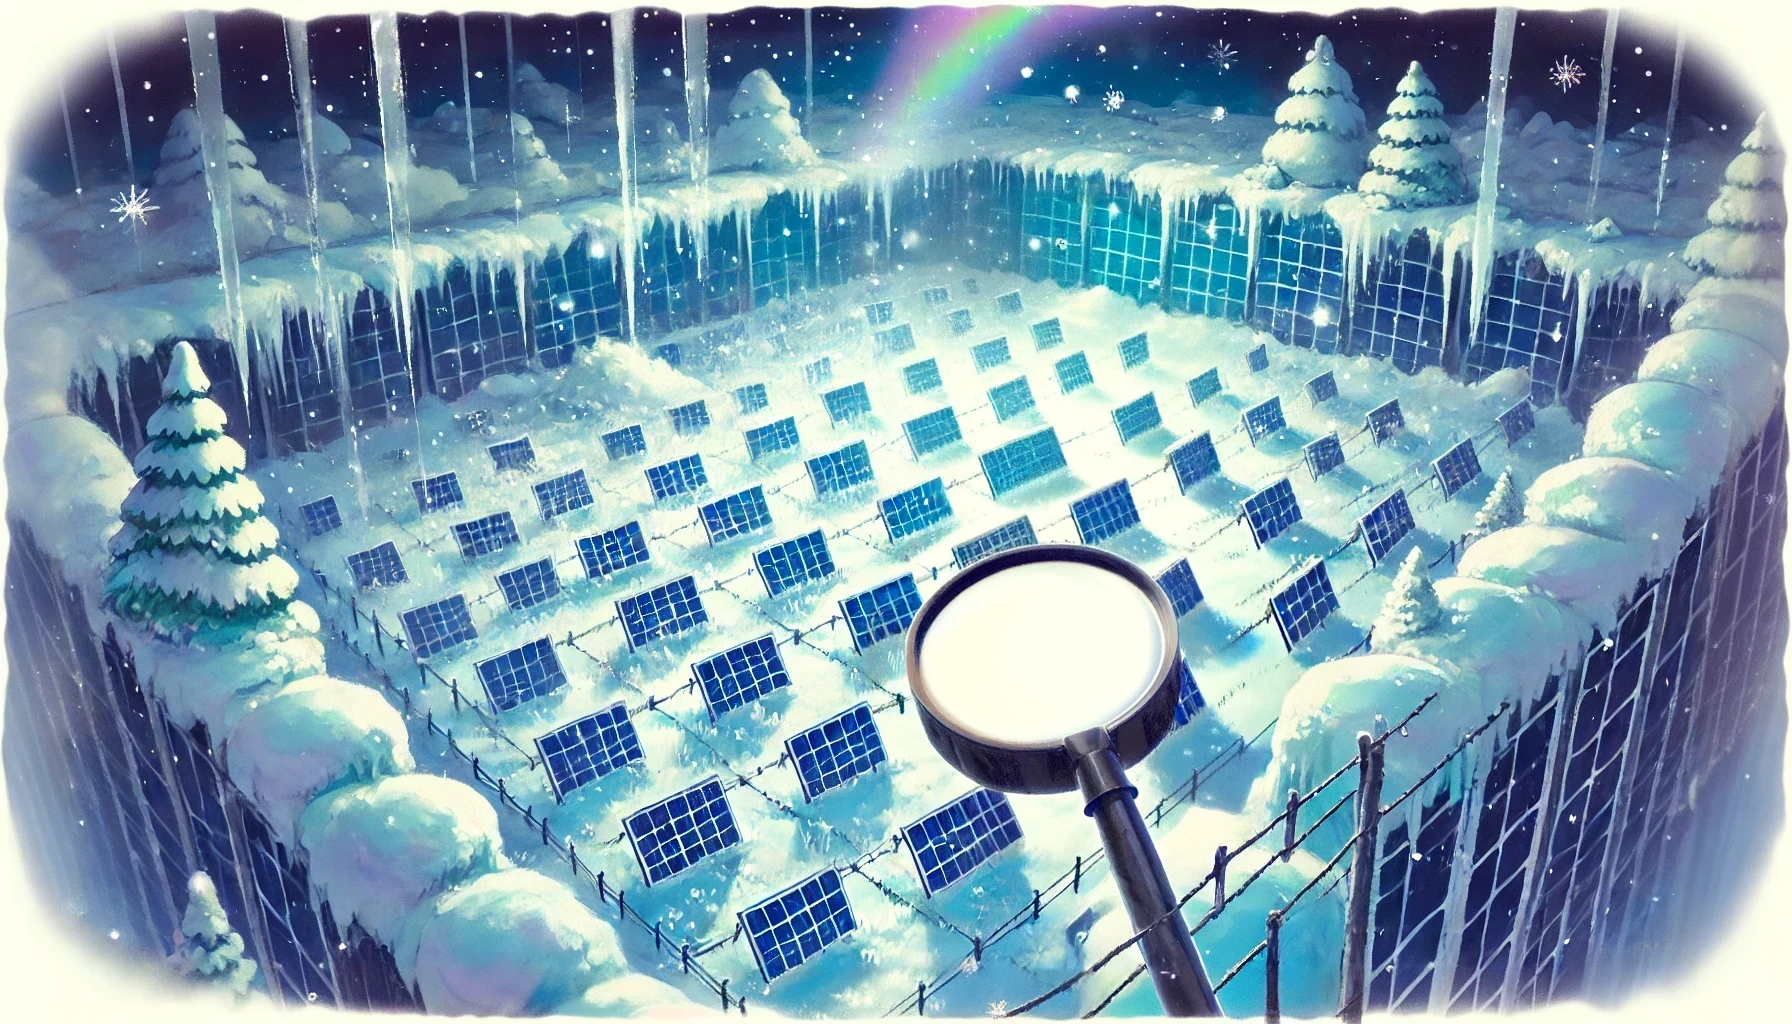
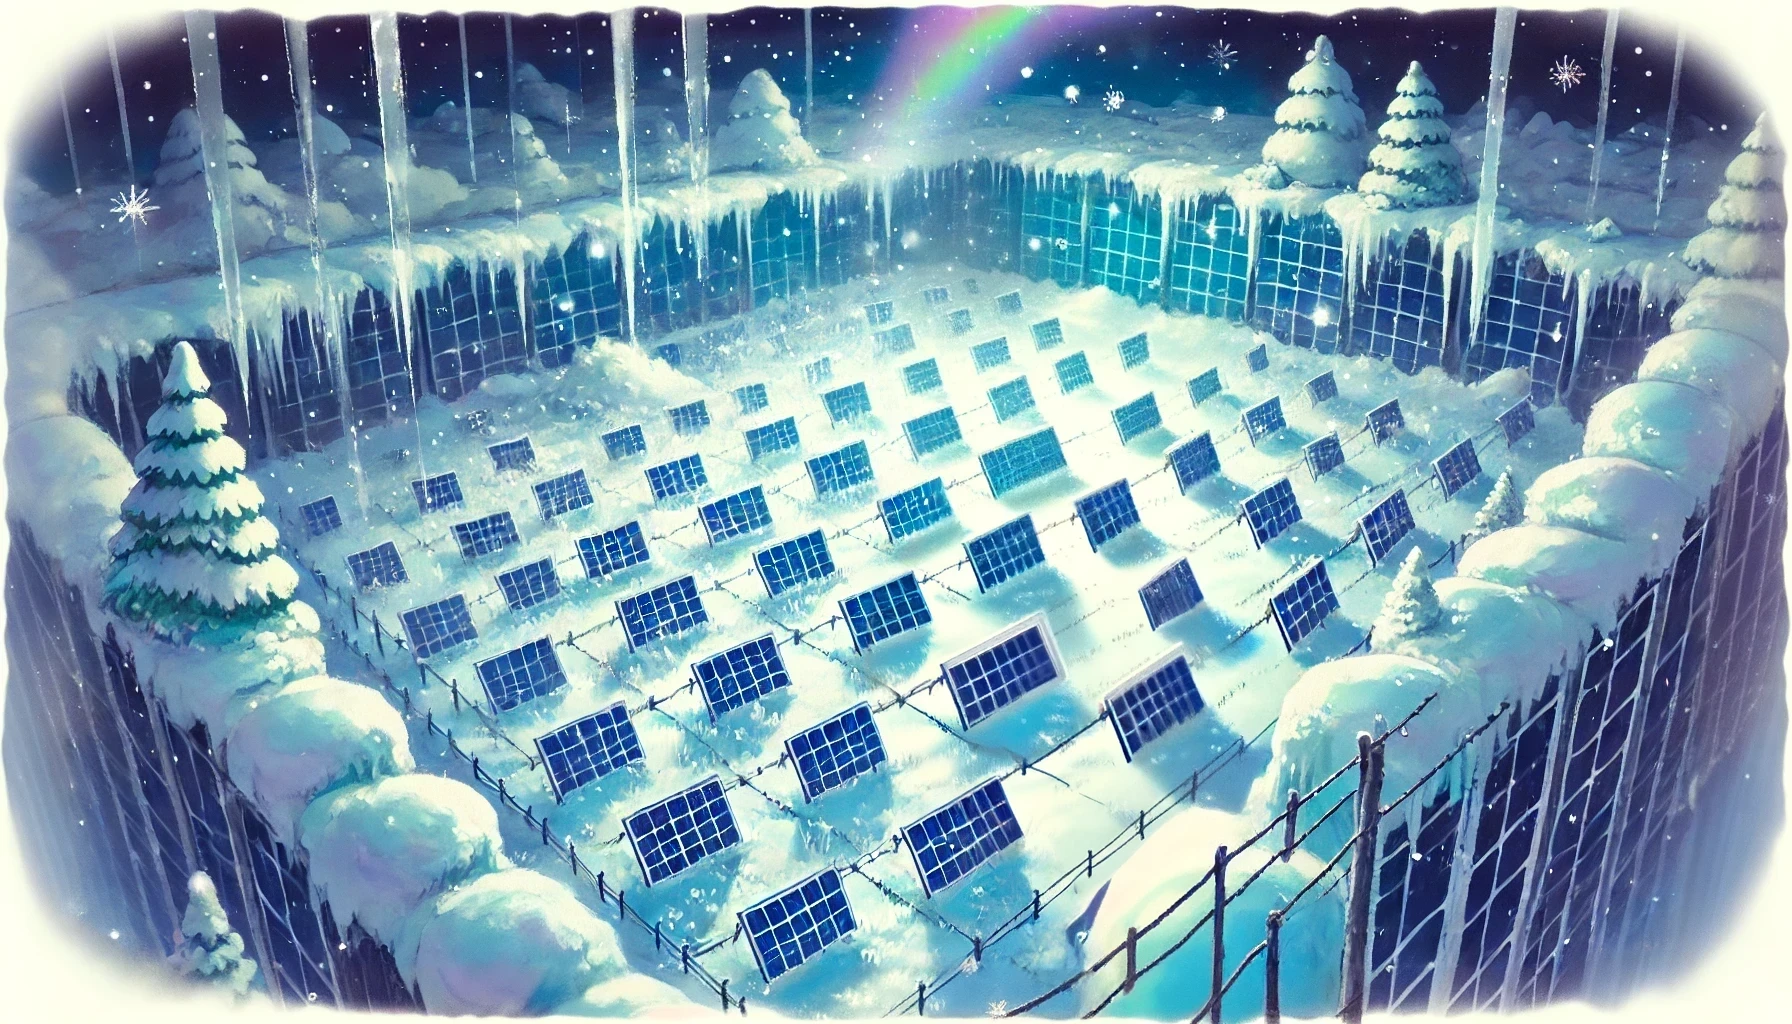
feat: add level 5

Changed region(s): [[0.4688, 0.4688, 0.7188, 1.0]]

diff --git a/_sass/dash/_layout.scss b/_sass/dash/_layout.scss
@@ -411,7 +411,7 @@
 
 .challenge-img {
   display: block;
-  height: 50vh;
+  height: 60vh;
   width: auto !important;
   margin: 0 auto;
   margin-top: 3vh;

diff --git a/_posts/christmas2024/2024-10-06-flames-bound-in-ice.md b/_posts/christmas2024/2024-10-06-flames-bound-in-ice.md
@@ -1,0 +1,56 @@
+---
+layout: level
+permalink: stories/christmas2024/act1/flames-bound-in-ice/
+cover_img: stories/christmas2024/flames-bound-in-ice.webp
+category: christmas2024
+level: 5
+title: "Day 5: Flames Bound in Ice"
+previously: >
+    After navigating the perilous froststeps and confronting the malevolent force, you were thrown into a field of solar panels, where you managed to melt the snow blocking your path. However, the force returned, stronger than ever, and you realized you cannot reach the Ember alone. To stand a chance, you must free the Guardian of the Hearth.
+narrative: >
+    You step into a dark, cold chamber deep within the Frostspire — a place unlike the rest of the Ember’s sacred grounds. This is the <b>Vault of Prisoned Flames</b>, a forgotten place where those who tried to reach the Ember illegally were imprisoned. The walls are lined with ancient chains and shackles, and the air is heavy with the weight of those who once sought the Ember's power for themselves.
+    <br><br>
+    In the center of the vault, bound by shimmering chains of ice and fire, lies the <b>Guardian of the Hearth</b>. Their once-glowing form is dimmed, weakened by the malevolent force. The Guardian’s eyes flicker weakly as they speak to you:
+    <blockquote>
+    This place... it was meant to imprison the greedy and the reckless. But now, I am its prisoner. The chains that hold me cannot be broken by strength alone. Only by recreating the <b>Essence of Warmth</b> — the potion that fuels the very flame of my power — can these chains be dissolved.
+    </blockquote>
+    <br><br>
+    You look around and find ancient cauldrons and shelves lined with dusty jars of magical ingredients. A long-forgotten recipe book lies open, its pages glowing faintly with the secrets of the Essence of Warmth. It’s clear that those who were imprisoned here once tried to brew their own potions in an attempt to escape, but their efforts failed.
+    <br><br>
+    The challenge before you is immense. You’ll need to combine rare ingredients in precise quantities to recreate the Essence of Warmth and free the Guardian. But the vault’s traps are still active, and time is running out as the malevolent force grows stronger with each passing moment.
+objective: >
+    Recreate the Essence of Warmth by combining ingredients in the correct quantities to free the Guardian.
+outcome: >
+
+---
+
+You need to gather and combine five magical ingredients using four ancient recipes to create the **Essence of Warmth**. Each recipe requires specific quantities of ingredients, and you must calculate the total amount needed for each ingredient to produce **exactly one** Essence of Warmth.
+
+```
+Ingredients:
+6- Fire Herb (F)
+6- Sunstone Dust (S)
+4- Ember Flower (E)
+3- Ash Root (A)
+1- Glowing Coal (G)
+
+Recipes:
+- 3 Fire Herb (F) + 2 Sunstone Dust (S) + 1 Ash Root (A) = 2 Warm Essence (W)
+- 4 Ember Flower (E) + 1 Ash Root (A) = 3 Flame Potion (P)
+- 1 Glowing Coal (G) + 2 Flame Potion (P) + 2 Sunstone Dust (S) = 1 Blazing Core (B)
+- 3 Warm Essence (W) + 1 Blazing Core (B) = 1 Essence of Warmth
+```
+
+Given this information, your task is to determine how many of each base ingredient is required to make the final product.
+
+Your answer must be in the format `FxSxExAxGx`, where `x` represents the amount of the ingredient preceding it. An example of a possible answer (obviously wrong) could be `F12S5E1A2G6`.
+
+<details>
+ <summary>Hint 1</summary>
+ Start by figuring out how many Warm Essences (W) and Blazing Cores (B) are needed for the final Essence of Warmth.
+</details>
+
+<details>
+ <summary>Hint 2</summary>
+ Break down Recipe 3 carefully — it involves three ingredients, and you’ll need to make sure you produce enough Flame Potions and Sunstone Dust to create the Blazing Core.
+</details>

diff --git a/_posts/christmas2024/2024-10-04-perilous-froststeps.md b/_posts/christmas2024/2024-10-04-perilous-froststeps.md
@@ -12,7 +12,7 @@ narrative: >
     <br><br>
     Soon, you reach a staircase carved into the mountain, glowing faintly with ancient magic. This is the <b>Guardian’s Trial</b>, the final test before the Ember can be reached. The Guardian of the Hearth has been imprisoned by the malevolent force, bound by powerful magic. The Guardian’s voice echoes faintly, trapped and unable to help directly. However, the trial itself remains active, enforcing the ancient laws of the keep.
     <br><br>
-    The voice speaks softly but urgently: <i>I cannot aid you directly, for I am bound by the very magic that protects the Ember. The path forward requires wisdom — step only on those numbers that follow the rhythm of the prime. Tread carefully, for one wrong step will cast you into the abyss.</i>
+    The voice speaks softly but urgently: <i>"I cannot aid you directly, for I am bound by the very magic that protects the Ember. The path forward requires wisdom — step only on those numbers that follow the rhythm of the prime. Tread carefully, for one wrong step will cast you into the abyss."</i>
     <br><br>
     The trial isn't the Guardian's will but an ancient safeguard. You must prove your worth by solving the riddle of the stairs to ascend.
 objective: >

diff --git a/_posts/christmas2024/2024-10-05-echoes-of-light.md b/_posts/christmas2024/2024-10-05-echoes-of-light.md
@@ -31,12 +31,12 @@ Here a representation of your location:
 
 <div><img class="challenge-img" src="/assets/img/stories/christmas2024/gridfield-with-panels.webp"></div>
 
-You need to:
+Keep these aspects in mind:
 - Rotate **exactly two** solar panels to direct the sunlight from the top-left corner to the bottom-right corner.
 - The beam of light is casted with a **45-degree** angle, i.e. diagonally (as depicted by the arrow).
 - The solar panels can only be rotated by a **90-degree** angle. Therefore, their orientation is either **horizontal** or **vertical**.
 - The answer must contain the **coordinates** of the solar panels that need to be **rotated**.
-- The answer must folow the format `x,y x,y`, where `x` indicates the column index and `y` indicates the row index. The top left corner position is `1,1`, while the bottom right position is `8,8`. The order of the coordinades is irrelevant.
+- The answer must folow the format `x,y x,y`, where `x` indicates the column index and `y` indicates the row index. The top left corner position is `1,1`, while the bottom right position is `8,8`. The order of the positions is irrelevant.
 
 <details>
  <summary>Hint 1</summary> 
